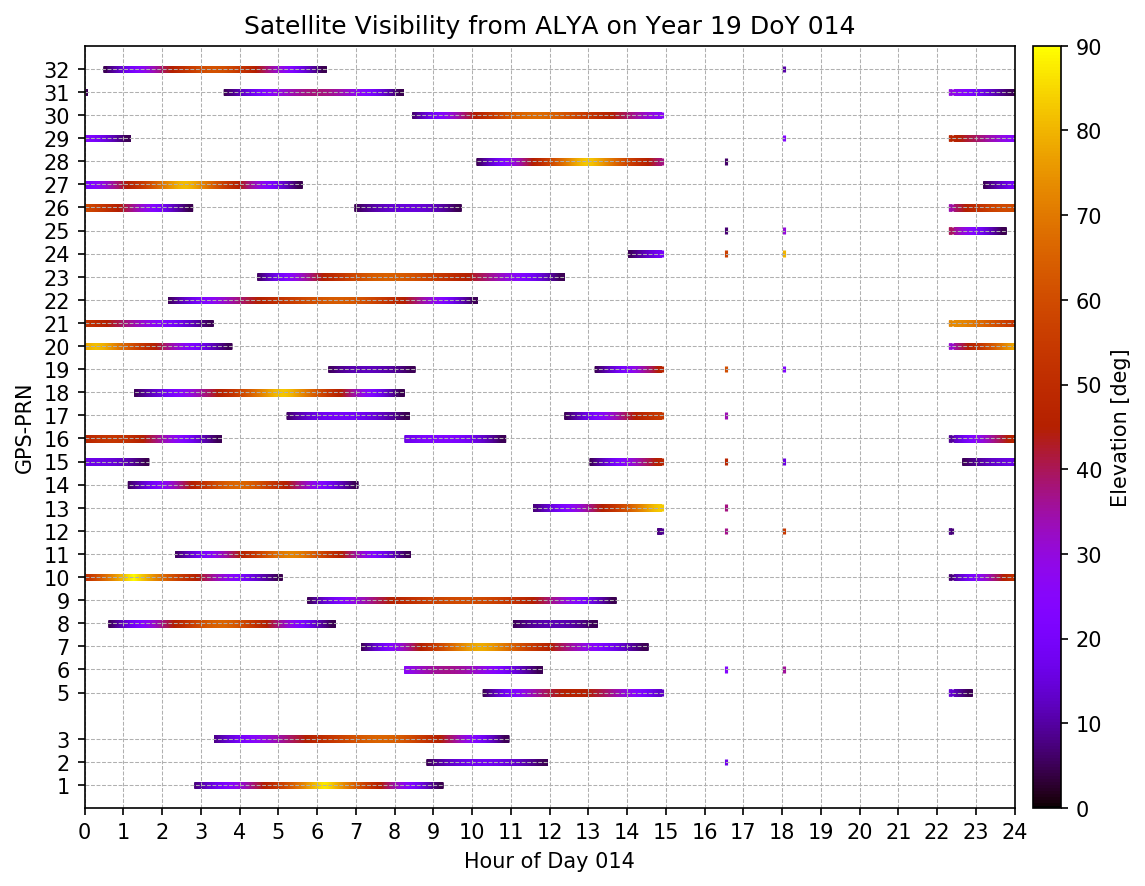
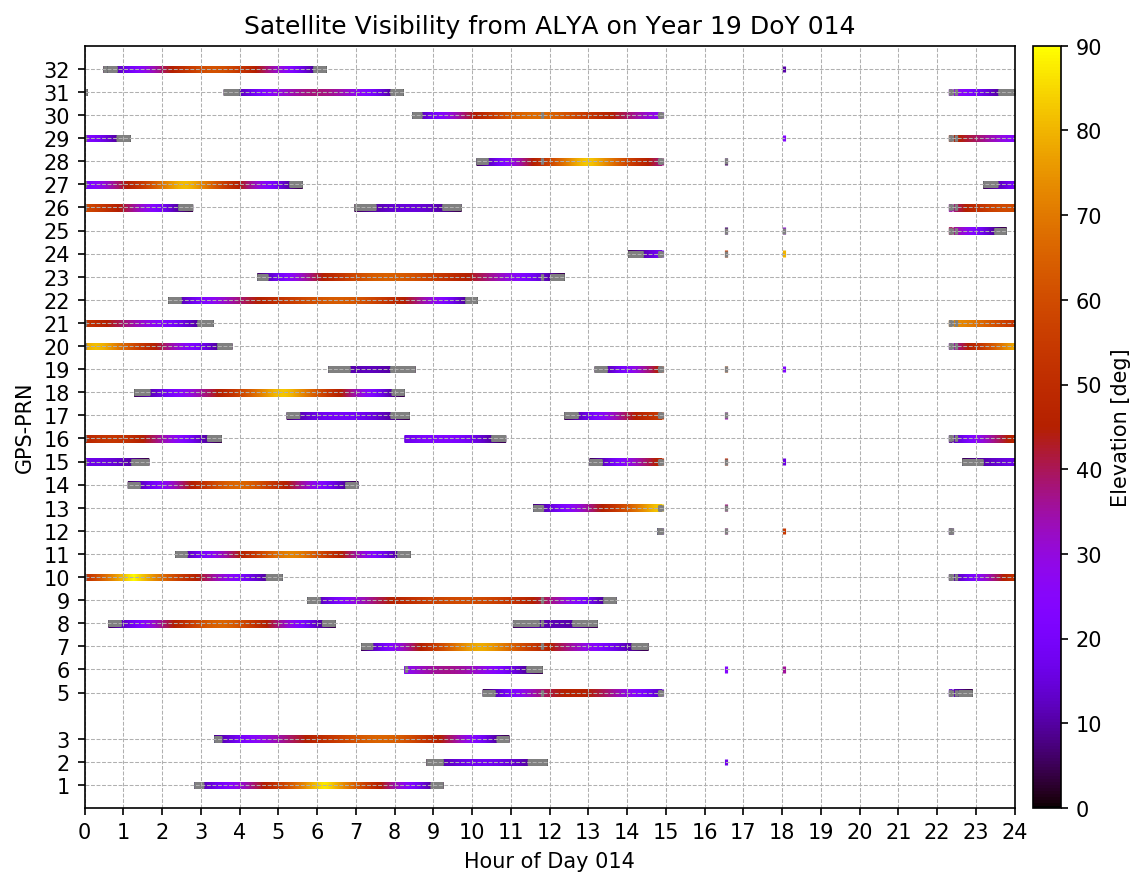
noCycleSlipImplemented

diff --git a/SRC/PreprocessingPlots.py b/SRC/PreprocessingPlots.py
@@ -49,8 +49,10 @@ def initPlot(PreproObsFile, PlotConf, Title, Label):
 cfg = {
     "SatVisibility"         : 0,
     "NumSatellites"         : 0,
+    "PolarView"             : 1,
+    "RejFlags"              : 0,
     "CodeRate"              : 0,
-    "CodeRateStep"          : 1,
+    "CodeRateStep"          : 0,
     "PhaseRate"             : 0,
     "PhaseRateStep"         : 0,
     "VTEC"                  : 0,
@@ -164,12 +166,89 @@ def plotNumSats(PreproObsFile, PreproObsData):
 
 # Plot Satellite Polar View - CHALLENGE
 def plotSatPolarView(PreproObsFile, PreproObsData):
-    print()
+    PlotConf = {}
+
+    PlotConf["Type"] = "Lines"
+    PlotConf["FigSize"] = (8.4,6.6)
+    Title = "Satellite Polar View"
+
+    PlotConf["Grid"] = 1
+
+    PlotConf["Marker"] = '.'
+    PlotConf["LineWidth"] = 1.5
+
+    PlotConf["ColorBar"] = "gnuplot"
+    PlotConf["ColorBarLabel"] = "GPS-PRN"
+    PlotConf["ColorBarTicks"] = range(0,33)
+
+    PlotConf["xData"] = {}
+    PlotConf["yData"] = {}
+    PlotConf["zData"] = {}
+
+    PlotConf["Polar"] = True
+
+    azim = PreproObsData[PreproIdx["AZIM"]]
+    elev = PreproObsData[PreproIdx["ELEV"]]
+
+    theta_azim_rad = np.radians(azim)
+    r_elev = 90 - elev
+
+    filter_cond = PreproObsData[PreproIdx["REJECT"]] != 2
+    Label = 0
+
+    PlotConf["xData"][Label] = theta_azim_rad[filter_cond]
+    PlotConf["yData"][Label] = r_elev[filter_cond]
+    PlotConf["zData"][Label] = PreproObsData[PreproIdx["PRN"]][filter_cond]
+
+    # init plot
+    Folder = "POLAR_VIEW"
+    initPlot(PreproObsFile, PlotConf, Title, Folder)
+    # Reset xLabel from initPlot
+    PlotConf["xLabel"] = ""
+    # Call generatePlot from Plots library
+    generatePlot(PlotConf)
 
 
 # Plot Rejection Flags
 def plotRejectionFlags(PreproObsFile, PreproObsData):
-    print()
+    PlotConf = {}
+
+    PlotConf["Type"] = "Lines"
+    PlotConf["FigSize"] = (8.4,6.6)
+    Title = "Rejection Flags"
+
+    PlotConf["yLabel"] = "Rejection Flags"
+    PlotConf["yTicks"] = range(0,15)
+        
+    PlotConf["xTicks"] = range(0, 25)
+    PlotConf["xLim"] = [0, 24]
+
+    PlotConf["Grid"] = 1
+
+    PlotConf["Marker"] = '.'
+    PlotConf["LineWidth"] = 10
+
+    PlotConf["ColorBar"] = "viridis"
+    PlotConf["ColorBarLabel"] = "GPS-PRN"
+    PlotConf["ColorBarTicks"] = range(0,33)
+
+    PlotConf["xData"] = {}
+    PlotConf["yData"] = {}
+    PlotConf["zData"] = {}
+
+    Label = 0
+
+    filter_cond = PreproObsData[PreproIdx["REJECT"]] != 0
+
+    PlotConf["xData"][Label] = PreproObsData[PreproIdx["SOD"]][filter_cond] / Const.S_IN_H
+    PlotConf["yData"][Label] = PreproObsData[PreproIdx["REJECT"]][filter_cond]
+    PlotConf["zData"][Label] = PreproObsData[PreproIdx["PRN"]][filter_cond]
+
+    # init plot
+    Folder = "REJ_FLAGs"
+    initPlot(PreproObsFile, PlotConf, Title, Folder)
+    # Call generatePlot from Plots library
+    generatePlot(PlotConf)
 
 
 # Plot Code Rate
@@ -305,7 +384,7 @@ def plotPhaseRateStep(PreproObsFile, PreproObsData):
     Title = "Phase Rate Step"
 
     PlotConf["yLabel"] = "Phase Rate Step [m/s^2]"
-    PlotConf["yLim"] = [-0.1,0.30]
+    PlotConf["yLim"] = [-0.05,0.20]
 
     PlotConf["xTicks"] = range(0, 25)
     PlotConf["xLim"] = [0, 24]
@@ -392,6 +471,7 @@ def plotAatr(PreproObsFile, PreproObsData):
     PlotConf["xTicks"] = range(0, 25)
     PlotConf["xLim"] = [0, 24]
 
+
     PlotConf["Grid"] = 1
 
     PlotConf["Marker"] = '.'
@@ -455,7 +535,31 @@ def generatePreproPlots(PreproObsFile):
 
         # Call Plot Function
         plotNumSats(PreproObsFile, PreproObsData)
-      
+
+    # Polar View
+    # ----------------------------------------------------------
+    if (cfg["PolarView"] == 1):
+        # Read the cols we need from PREPRO OBS file
+        PreproObsData = read_csv(PreproObsFile, delim_whitespace=True, skiprows=1, header=None,\
+        usecols=[PreproIdx["ELEV"], PreproIdx["AZIM"], PreproIdx["PRN"], PreproIdx["REJECT"]])
+
+        print( '\nPlot Satellite Polar View ...')
+
+        # Call Plot Function
+        plotSatPolarView(PreproObsFile, PreproObsData)
+
+    # Rejection Flags
+    # ----------------------------------------------------------
+    if (cfg["RejFlags"] == 1):
+        # Read the cols we need from PREPRO OBS file
+        PreproObsData = read_csv(PreproObsFile, delim_whitespace=True, skiprows=1, header=None,\
+        usecols=[PreproIdx["SOD"], PreproIdx["PRN"], PreproIdx["REJECT"]])
+
+        print( '\nPlot Rejection Flags ...')
+
+        # Call Plot Function
+        plotRejectionFlags(PreproObsFile, PreproObsData)
+
     # Code Rate
     # ----------------------------------------------------------
     if (cfg["CodeRate"] == 1):

diff --git a/SRC/Preprocessing.py b/SRC/Preprocessing.py
@@ -177,19 +177,20 @@ def runPreProcMeas(Conf, Rcvr, ObsInfo, PrevPreproObsInfo):
         # Check measurement data gaps
         #-------------------------------------------------------------------------------
         DeltaT = SatPreproObsInfo["Sod"] - PrevPreproObsInfo[SatLabel]["PrevEpoch"]
-        # DeltaT > 5000 simulates satellite's period to not tag non-visibility periods as data gaps
-        if(DeltaT > Conf["MAX_GAP"][1] and DeltaT > 5000): # and PrevPreproObsInfo["PrevRej"] != REJECTION_CAUSE["MASKANGLE"]
+        # DeltaT < 1000 simulates satellite's period to not tag non-visibility periods as data gaps
+        if(DeltaT > Conf["MAX_GAP"][1] and DeltaT < 1000): # and PrevPreproObsInfo["PrevRej"] != REJECTION_CAUSE["MASKANGLE"]
                 # Check if gap detection is activated
                 if Conf["MAX_GAP"][0]:
                     # Flag the measurement as a data gap
                     SatPreproObsInfo["RejectionCause"] = REJECTION_CAUSE["DATA_GAP"]
-                    # Reset previous info
-                    PrevPreproObsInfo[SatLabel]["PrevCode"] = Const.NAN
-                    PrevPreproObsInfo[SatLabel]["PrevPhase"] = Const.NAN
-                    PrevPreproObsInfo[SatLabel]["PrevCodeRate"] = Const.NAN
-                    PrevPreproObsInfo[SatLabel]["PrevPhaseRate"] = Const.NAN
-                    PrevPreproObsInfo[SatLabel]["PrevStec"] = Const.NAN
-                    PrevPreproObsInfo[SatLabel]["PrevStecEpoch"] = Const.NAN
+
+                # Reset previous info
+                PrevPreproObsInfo[SatLabel]["PrevCode"] = Const.NAN
+                PrevPreproObsInfo[SatLabel]["PrevPhase"] = Const.NAN
+                PrevPreproObsInfo[SatLabel]["PrevCodeRate"] = Const.NAN
+                PrevPreproObsInfo[SatLabel]["PrevPhaseRate"] = Const.NAN
+                PrevPreproObsInfo[SatLabel]["PrevStec"] = Const.NAN
+                PrevPreproObsInfo[SatLabel]["PrevStecEpoch"] = Const.NAN
 
         # Build measurement combinations
         #-------------------------------------------------------------------------------
